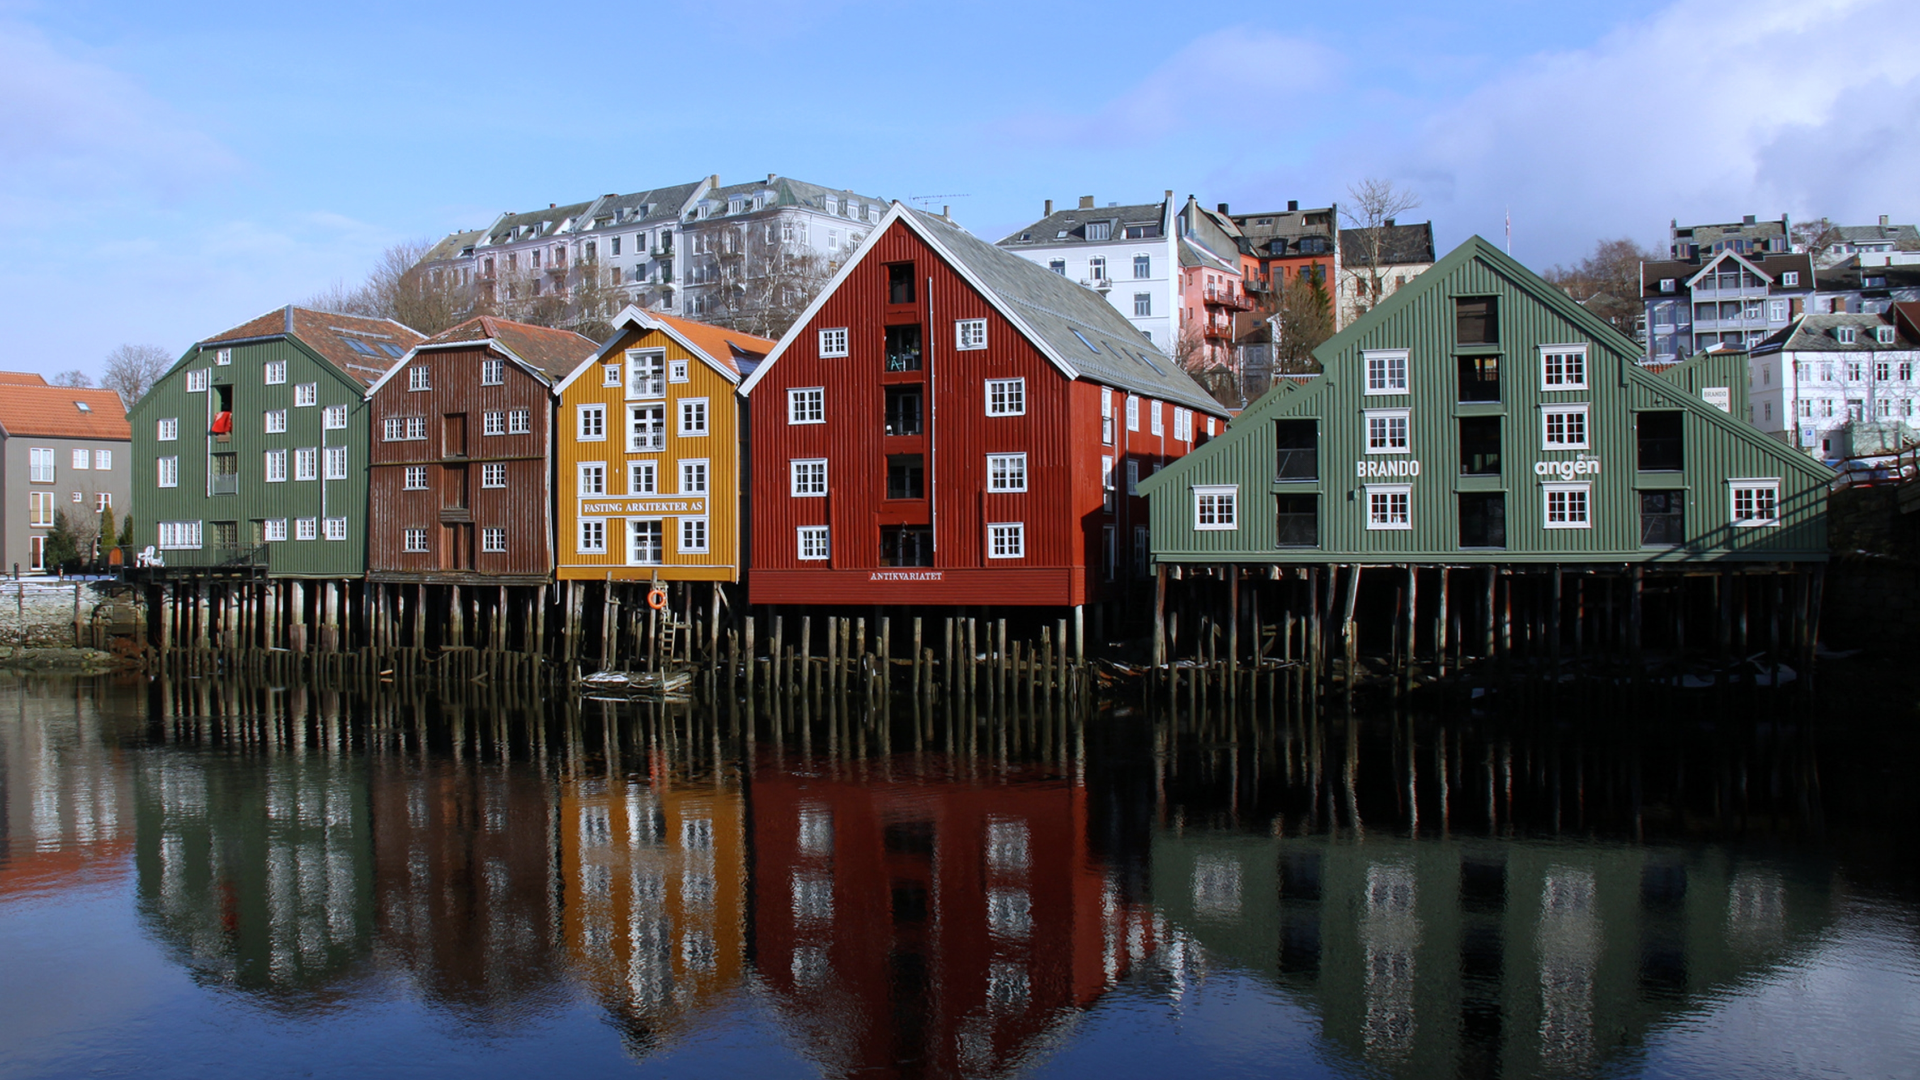
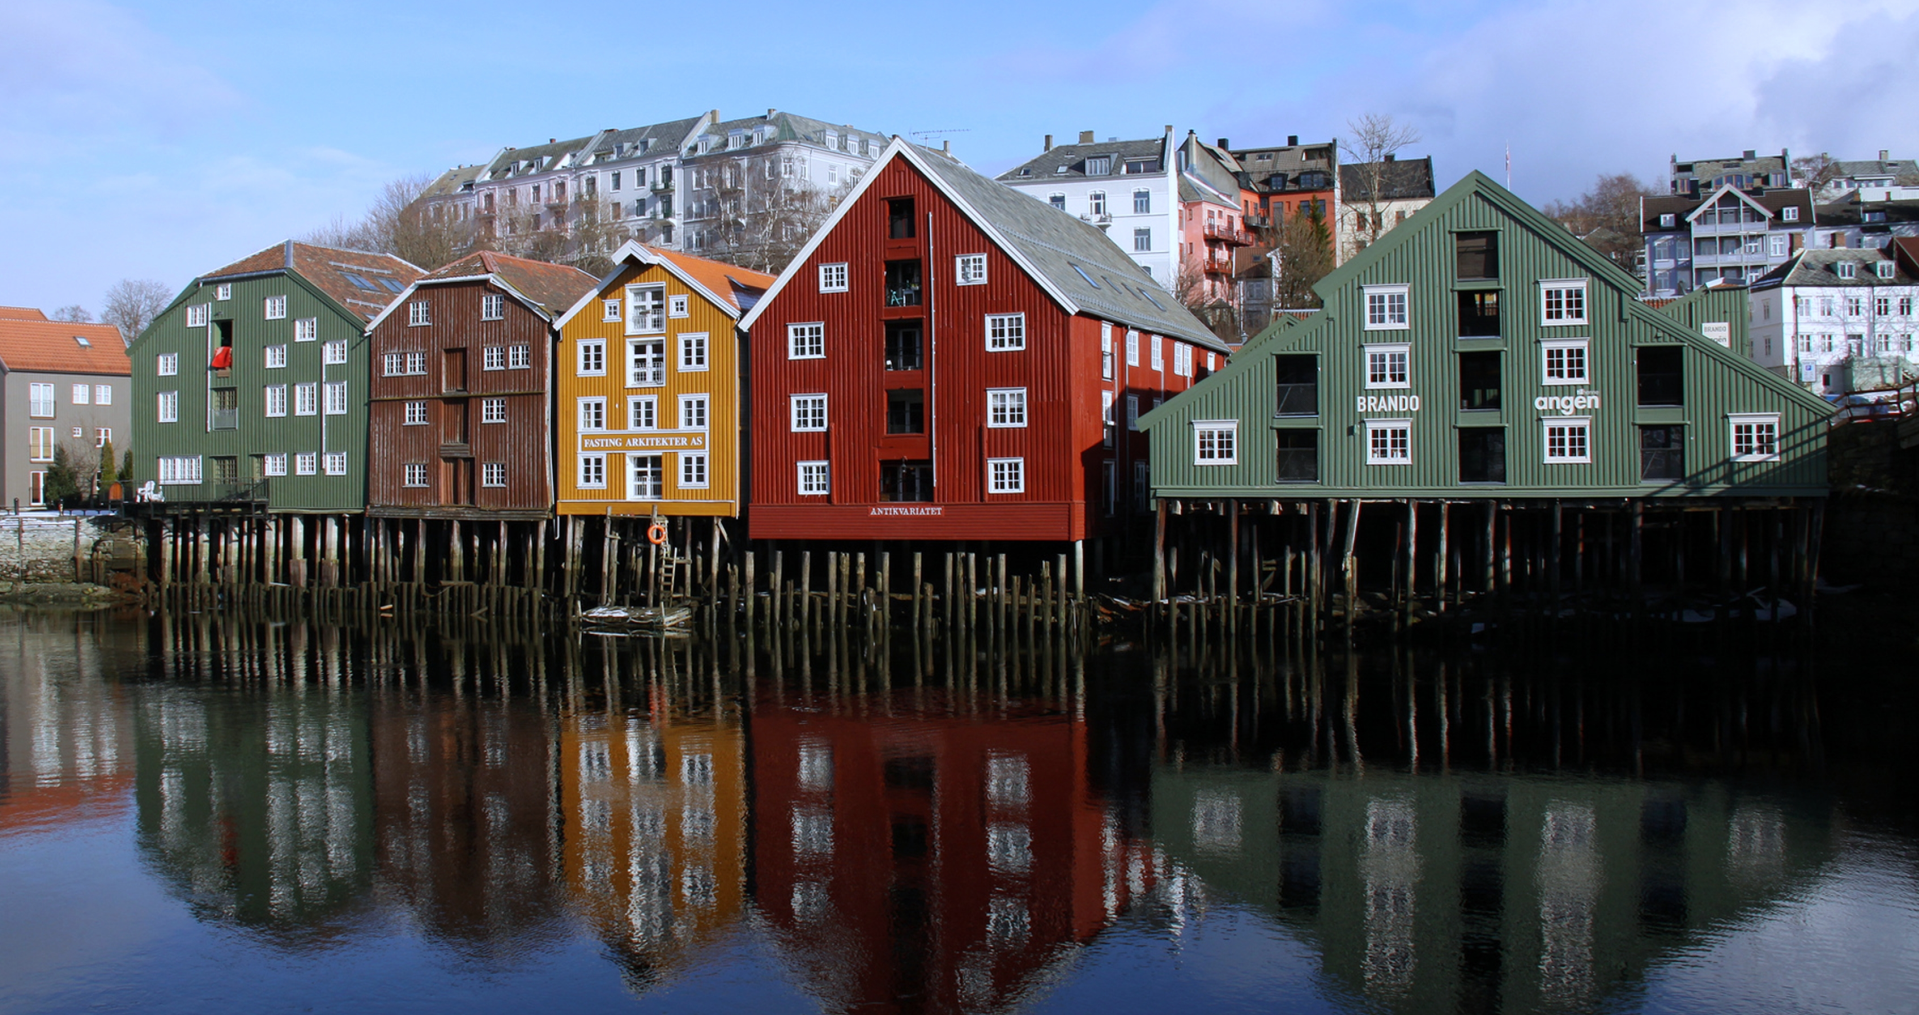
added div in background and title text "Promowane ogloszenia"

diff --git a/client/src/Components/Pages/Strona_glowna/Strona_glowna.css b/client/src/Components/Pages/Strona_glowna/Strona_glowna.css
@@ -1,4 +1,36 @@
-.hello{
-   position: sticky;
-   padding-top:6%;
+@import url('https://fonts.googleapis.com/css2?family=Poppins:ital,wght@0,100;0,200;0,300;0,400;0,500;0,600;0,700;0,800;0,900;1,100;1,200;1,300;1,400;1,500;1,600;1,700;1,800;1,900&display=swap');
+
+.kontener_bg_photo{
+   padding-top: 2%;
+   position:relative;
+   width: 100%;
+}
+.main_bg{
+    width: 100%;
+    height: auto;
+}
+.white_bg_first_page{
+    position: absolute;
+    bottom: 0;
+    left: 50%;
+    transform: translateX(-50%);
+    background-color: rgb(247, 155, 155);
+    width: 100%;
+    height: 40%; 
+    margin-bottom: 0.7%;
+    
+    
+}
+.promowane_ogloszenia{
+    margin-left: 2%;
+    margin-top: 1%;
+    font-family: 'Poppins' ;
+    font-weight: 600;
+}
+.oferty_przydzielone{
+    margin-top: -0.5%;
+    margin-left: 2.1%;
+    font-size: 55%;
+    font-weight: 500;
+    color: #717171;
 }

diff --git a/client/src/Components/Pages/Strona_glowna/Strona_glowna.jsx b/client/src/Components/Pages/Strona_glowna/Strona_glowna.jsx
@@ -1,13 +1,21 @@
 import React from 'react'
 import './Strona_glowna.css'
-
+import main_bg from '../../../assets/bg_main_picture.png'
 const Strona_glowna = () => {
   return (
-    <div className='hello'>
-      
-    <div>
-      pierwszy
-      </div>
+    <div className='glowna_strona'>
+        <div className='kontener_bg_photo'>
+          <img src={main_bg}  className='main_bg'/>
+            <div className='white_bg_first_page'>
+              <div className="promowane_ogloszenia">
+                Promowane ogłoszenia
+              </div>
+              <div className='oferty_przydzielone'>
+               Oferty zostały przydzielone na podstawie twojej lokalizacji 
+              </div>
+            </div>
+        </div>
+    
       
     <div>
       strona glowna

diff --git a/client/src/Components/Pages/Dodaj_ogloszenie/Dodaj_ogloszenie.jsx b/client/src/Components/Pages/Dodaj_ogloszenie/Dodaj_ogloszenie.jsx
@@ -2,8 +2,8 @@ import React from 'react'
 import './Dodaj_ogloszenie.css'
 const Dodaj_ogloszenie = () => {
   return (
-    <div className='chuj'>
-       <div >
+    <div className='lol'>
+       <div>
         dodaj ogloszenie
       </div>
       

diff --git a/client/src/Components/Navbar/Navbar.css b/client/src/Components/Navbar/Navbar.css
@@ -10,6 +10,7 @@
     text-shadow: black;
     position: fixed;
     z-index:1000;
+    max-height: min-content;
 
 
 }
